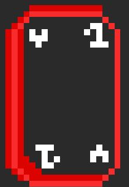
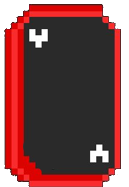
implementacion de sprites

diff --git a/DeadDraw/juegopro.js b/DeadDraw/juegopro.js
@@ -12,6 +12,14 @@ let ctx;
 let game;
 let terminado = false;
 
+const imgCorazon = new Image();
+imgCorazon.src = 'assets/corazon.png';
+
+const imgRombos = new Image();
+imgRombos.src = 'assets/rombos.png';
+
+const imgPicas = new Image();
+imgPicas.src = 'assets/picas.png';
 
 function shuffle(array) {
     let currentIndex = array.length;
@@ -33,7 +41,7 @@ function shuffle(array) {
 // Contador del juego
 class Tiempo {
 
-    constructor(tiempoSegundos = 100) {
+    constructor(tiempoSegundos = 10) {
         this.tiempolim = tiempoSegundos * 1000;
         this.time = 0;
     }
@@ -142,7 +150,7 @@ class Cards {
 class CardEnemie extends Cards {
     draw(ctx) {
         ctx.fillStyle = "black";
-        ctx.fillRect(this.x,
+        ctx.drawImage(imgPicas,this.x,
             this.y,
             this.width * this.scale,
             this.height * this.scale);
@@ -176,7 +184,7 @@ class CardEnemie extends Cards {
 class CardVida extends Cards {
     draw(ctx) {
         ctx.fillStyle = "red";
-        ctx.fillRect(this.x,
+        ctx.drawImage(imgCorazon,this.x,
             this.y,
             this.width * this.scale,
             this.height * this.scale);
@@ -206,12 +214,16 @@ class CardVida extends Cards {
 
 class CardEspada extends Cards {
     draw(ctx) {
+        let img = imgRombos;
+        console.log(img);
         if(this.habilidad != ""){
-            ctx.fillStyle = "purple";
-            ctx.fillRect(this.x,
+            //ctx.fillStyle = "purple";
+            ctx.drawImage(img,this.x,
                 this.y,
                 this.width * this.scale,
                 this.height * this.scale);
+
+
             ctx.fillStyle = "white";
             ctx.font = "20px Arial";
             ctx.textAlign = "center";
@@ -221,8 +233,10 @@ class CardEspada extends Cards {
             
         }
         else{
-            ctx.fillStyle = "orange";
-            ctx.fillRect(this.x,
+            let img = imgRombos;
+            //ctx.fillStyle = "orange";
+            ctx.drawImage(img,
+                this.x,
                 this.y,
                 this.width * this.scale,
                 this.height * this.scale);

diff --git a/DeadDraw/juegopro_images.js b/DeadDraw/juegopro_images.js
@@ -11,8 +11,8 @@ let terminado = false;
 const imgCorazon = new Image();
 imgCorazon.src = 'assets/corazon.png';
 
-const imgPicas = new Image();
-imgPicas.src = 'assets/picas.png';
+const imgRombos = new Image();
+imgRombos.src = 'assets/picas.png';
 
 class HealthBar{
     constructor(x, y, width, height, maxHealth){
@@ -72,7 +72,7 @@ class cards {
     }
     draw(ctx) {
         // esta funcion decide que imagen usar segun el tipo de la carta
-        let img = this.type === 'corazon' ? imgCorazon : imgPicas;
+        let img = this.type === 'corazon' ? imgCorazon : imgRombos;
         ctx.drawImage(img,
                       this.x,
                       this.y,
